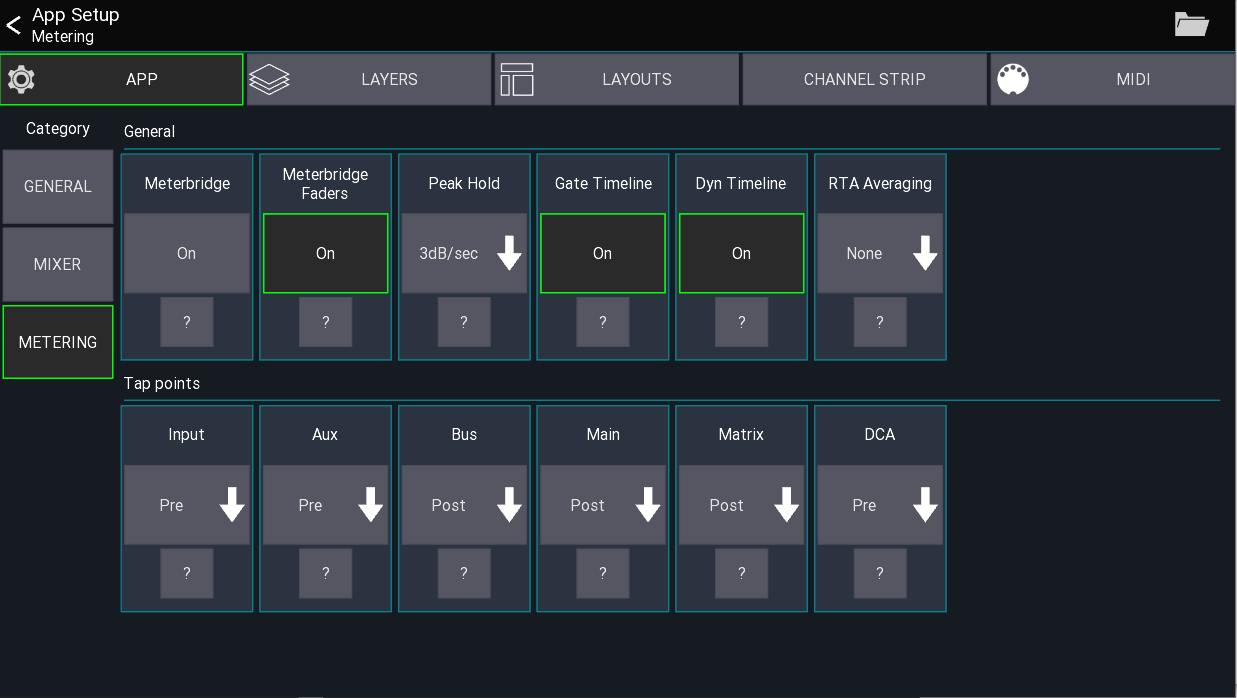
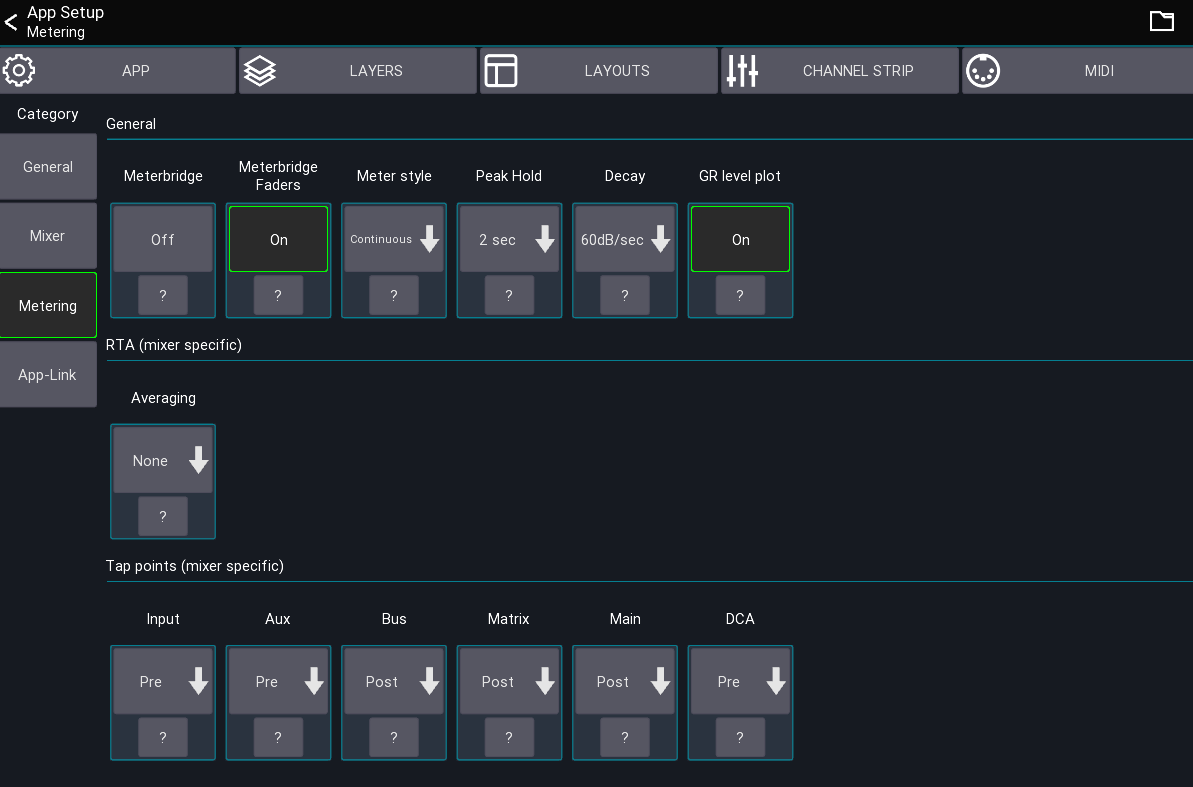
docs: update screenshots and text to reflect latest changes

diff --git a/docs/settings/app.md b/docs/settings/app.md
@@ -8,10 +8,15 @@ Menu -> Setup -> App
 ```
 
 ## App tab
-![General settings](../img/settings/session-general.png)
-The first tab contains all *session settings*. On the left side you have different setting categories available.
+![General settings](../img/settings/app.png)
+The first tab contains all *app settings*. On the left side you have different setting categories available.
 
 You can press the `?` for more details. Some special settings are explained here in more detail.
+
+The [channel strip](channel-strip.md) tab is explaiend on it's dedicated page.
+
+### Setup wizard
+Restarts the setup wizard that was shown to you the first time you've opened the app.
 
 ### Orientation lock
 If supported by the platform you can lock the orientation of the device. If not available please use the OS mechanism for locking the screen.
@@ -19,13 +24,13 @@ If supported by the platform you can lock the orientation of the device. If not 
 ### Autosave
 When enabled automatically saves all `User settings` as `default` when leaving any settings view.
 
+### USB Midi
+Enables the USB midi stack. This should only be enabled if you're using this functionality as it consumes more battery.
+
 ### Windows
 >PC only
 
 These settings allow you to configure the multi window behavior of the app.
-
-### USB Midi
-Enables the USB midi stack. This should only be enabled if you're using this functionality as it consumes more battery.
 
 ## Mixer category
 ![Mixer settings](../img/settings/session-mixer.png)
@@ -74,10 +79,23 @@ Depending on the mixer this means that the app will change the PAFL selection.
 ![Mixer settings](../img/settings/session-metering.png)
 In this section you can configure everything related to signal metering and RTA.
 
-### Gate/Dyn Timeline
-Enables a history plot of the gate/dynamics input and gain reduction signal.
+### Meterbridge
+Shows a meterbrige on top the mixer. The number of meters pre group follows your `visible channels` layer configuration.
+
+### Peak hold
+Defines how long the peak indicator should be shown before resetting.
+
+### Decay
+Defines how fast the meter should decay (fall down).
+
+### GR level plot
+Enables a history plot of the dynamics input and gain reduction signal.
 ![timeline](../img/dyn-timeline.png)
 
 ### Tap points
 Depending on the mixer you can change the signal tap points that should be used for showing the meters.
 If you mixer doesn't support this feature it will not be shown in the app.
+
+
+## App-Link category
+See [app-link](../app-link.md)

diff --git a/docs/custom-layouts.md b/docs/custom-layouts.md
@@ -3,18 +3,16 @@
 This feature allows you to fully customize the mixer view to match your workflow
 and create new views for different purposes (e.g. fixed installations).
 
-![Settings-Manager](img/layouts/layouts-settings.png)
+![Layouts-Overview](img/layouts/layouts-settings.png)
 
 
 ## Structure
 You can create an unlimited number of layouts, each of them has a set of UI elements.
-**Note:** Landscape and portrait position/sizes are stored independent from each other.
-To edit any of the other orientations just rotate your device in the editor.
 
 - Layout Overview
 	- Layout
 		- UI items
-			- One or more [actions](custom-actions.md) per UI item
+			- One or more [action](custom-actions.md) per UI item
 
 ## Quickstart
 
@@ -23,25 +21,27 @@ To edit any of the other orientations just rotate your device in the editor.
 3. Press the `+` menu entry to add a new layout
 4. Add and move UI items to your taste
 
+> By default, the first custom layout you create will override the mixer layout
+
 ## Layout Settings
 While in the layout editor, press the `gear icon` in the top menu to open the layout settings.
 ![Layout settings](img/layouts/layout-settings.png)
 
-From there you can rename your layout or change the mode.
+From there you can rename your layout, or change the general behavior
 
-### Layout modes
-The layout modes option configures when/how the layout is applied to the app.
+### Behavior
+The layout behavior option configures when/how the layout is applied to the app.
 
 | Mode | Description
 | --- | --- |
 | Default | The layout is only shown if the user manually opens the layout |
-| Override mixer layout | The layout replaces the stock mixer layout, |
+| Override mixer layout | The layout replaces the default mixer layout |
 | Open on startup | Opens the layout on startup. |
 
 The `Open on startup` option is designed for scenarios where you want to limit the parameters accessible (the top menu is empty).
 Additionally it's possible to **password protect** going back to the main mixer.
 
-This allows you to create a dedicated layout (for example for a wall mounted tablet) and completely limit access to anything else in the app.
+This allows you to create a dedicated layout (for example for a wall mounted tablet) and completely restrict access to anything else in the app.
 
 
 ## UI items

diff --git a/docs/settings/channel-strip.md b/docs/settings/channel-strip.md
@@ -1,26 +1,30 @@
 # Channel strip settings
-![Channel strip settings](../img/settings/channel-strip.gif)
-These settings are related to the channel strips in the mixer and belong to the **user settings**
+![Channel strip settings](../img/settings/channel-strip.webp)
 
-## Items
+These settings are related to the channel strips in the mixer and belong to the **user settings** (aka. apply to all mixers)
+
+## Channel strip items
 On the left side of the view you can change the size and position of the channel strip UI elements.
-Drag the green rectanges to resize the items. Drag anywhere else to change the position.
+Drag directly on the item resize the items. Drag on the left side to change the position.
 
-You can add new items by using the `Add Item` button. To remove an item simply click or long click on it.
+## Fader
+### Show groups
+When enabled, all assigned DCA and Mutegroups will be shown on the right of the fader
 
-### Touch modes
-It is possible to change the touch modes for this setup dialog using the `Auto` button in the top menu:
+### Fader touch
+Defines what should happen if the fader is touched
 
-- Auto: The item will be moved/resized depending on where you touch the icon
-- Resize: The item will always resized when dragging
-- Move: The item will always be moved when dragging
-
+### Double tap
+Defines what should happen if the fader is double tapped
 
 ## Sliders
 This section configures all sliders inside a channel strip (e.g. in the mixer and any other channel strip).
 
 ## Behaviour
 This section configures how the channel strip should behave
+
+### Highlight channel
+If enabled, the currently selected channel will be highlighted
 
 ### Fine fader ratio
 Changes the sensitivity of the fader when [fine mode](/ui-controls/#fine-mode) is enabled
@@ -31,5 +35,8 @@ Changes the behavior when taping a channel button
 ### Channel long click
 Changes the behavior when long pressing a channel button
 
-## Channel strip items
-In this section you can select what items should be shown in a channel strip
+### Sends click
+Defines what should happen if a sends slider inside the channel strip was clicked
+
+### Sends readonly
+If enabled, the sends slider inside the channel strip are read-only (to prevent accidential changes)

diff --git a/docs/settings/overview.md b/docs/settings/overview.md
@@ -1,33 +1,37 @@
 # Settings
 This page explains how the app stores settings.
 
-There are 4 different settings categories: Globa, Series, Session and user settings.
+There are 4 different settings categories: Global, Series, App, and User settings.
 
 | Name | Scope | Custom saves (import/export) possible |
 | ---- | --- | --- |
-| Global settings | Applies to all apps | No |
+| Global settings | Applies to the entire app | No |
 | Console series settings | Applies to a console series / Android app | No |
-| User settings | Applies to connected/offline mode | Yes |
+| App settings | Applies to the entire app | No |
+| User settings | Applies to a specific mixer model | Yes |
 
 ## Global settings
 These settings apply to the whole app. On android these settigns apply to all app instances.
 
-- Update branch
-- UI scale
+- All app UI / UX related configuration (scale, slider sensitity and behavior, ...)
 - Network interface settings
-- All app UI / UX related configuration
-- [Channel strip](channel-strip.md)
 
 ## Console series settings
-These settings apply to the currently selected mixer series (or a single android app).
+These settings apply to the currently selected mixer series (for example the `XM32`).
 
-- Restricted access config
-- Last IP address and mix access
-- Mutegroup names
+- [Permissions configuration](../getting-started.md#permissions)
+- IP address of the mixer
+
+
+## App settings
+These settings are also global for the entire app and let you change UI/UX related settings, for example the [Channel strip](channel-strip.md).
+```
+Menu -> Setup (gear icon)
+```
 
 
 ## User settings
-These settings are only saved if `Autosave` is enabled or the user saves them manualy.
+These settings are saved automatically by default (see `Autosave`). You can save them manualy as well.
 
 - [Layer](../layers.md)
 - [Layouts](../custom-layouts.md)

diff --git a/docs/settings/global.md b/docs/settings/global.md
@@ -1,7 +1,11 @@
 # Global settings
-This page gives an overview over the available global settings.
+There are two places for configuring global settings:
 
-## Open settings
+- The `Global settings` view allows you to change generic settings such as UI scale, scroll behavior or network interfaces
+- The `App settings` view allows you to change settings related to the mixing UI
+
+## Global settings
+### Open settings
 The app settings can be opened via the menu from the `start view` (directly after opening the app)
 ```
 Menu -> Gear icon
@@ -9,37 +13,33 @@ Menu -> Gear icon
 
 ![Settings-Manager](../img/generated/global-settings-screenshot.png)
 
-## Update branch
+### Update branch
 > PC version only
 
 Configures which branch to use when checking for updates
 
-## Scale
+### Scale
 Changes the UI scale of the app.
 
-## Invert scroll
+### Invert scroll
 Inverts the mouse / touchpad scroll direction
 
 
-## Access bus processing
+### Access bus processing
 When enabled a user with restricted access to a single bus is allowed to access the processing of that bus.
 
-## Autostart
+### Autostart
 Autostart allows you to configure to which mixer the app should connect after starting.
 This is usefull for installation purposes where the app should always connect to a mixer without user interaction.
 
-## API
+### API
 Only available on Desktop platform. Lets you enable the API access for Mixing Station. 
 
-## Skip sync
-> Debugging purposes only
 
-Disables the data sync from the console
-
-## Auto reconnect
+### Auto reconnect
 When enabled the app will automatically reconnect to the mixer in case of a connection error
 
 
-## Network
+### Network
 On the top right you can access the network interface settings.
 These settings are for advanced network configurations.

diff --git a/docs/ui-controls.md b/docs/ui-controls.md
@@ -57,6 +57,11 @@ Sliders are used in some FX views and in the knob popup described above.
 The white line indicates the default value for this parameter.
 ![Slider popup](img/slider-popup.png)
 
+## Text input
+![Input button](img/text-input.png)
+
+Dark buttons indicate a text input. Some fields may allow multiline text input. On iOS you can use the `$` character to indicate a line break.
+
 ## Channel buttons
 
 The behavior of these button can be configured in the [app settings](settings/user_session.md).

diff --git a/docs/settings/user.md b/docs/settings/user.md
@@ -1,0 +1,16 @@
+# User / Session settings
+This page provides access to all session and user settings
+
+## Open settings
+The app settings can be opened via the menu from the *mixer view*
+```
+Menu -> Setup -> App
+```
+
+![User settings](../img/settings/user.png)
+
+The user settings described on dedicated pages:
+
+- [Layers](../layers.md)
+- [Layouts](../custom-layouts.md)
+- [Midi](../midi.md)
